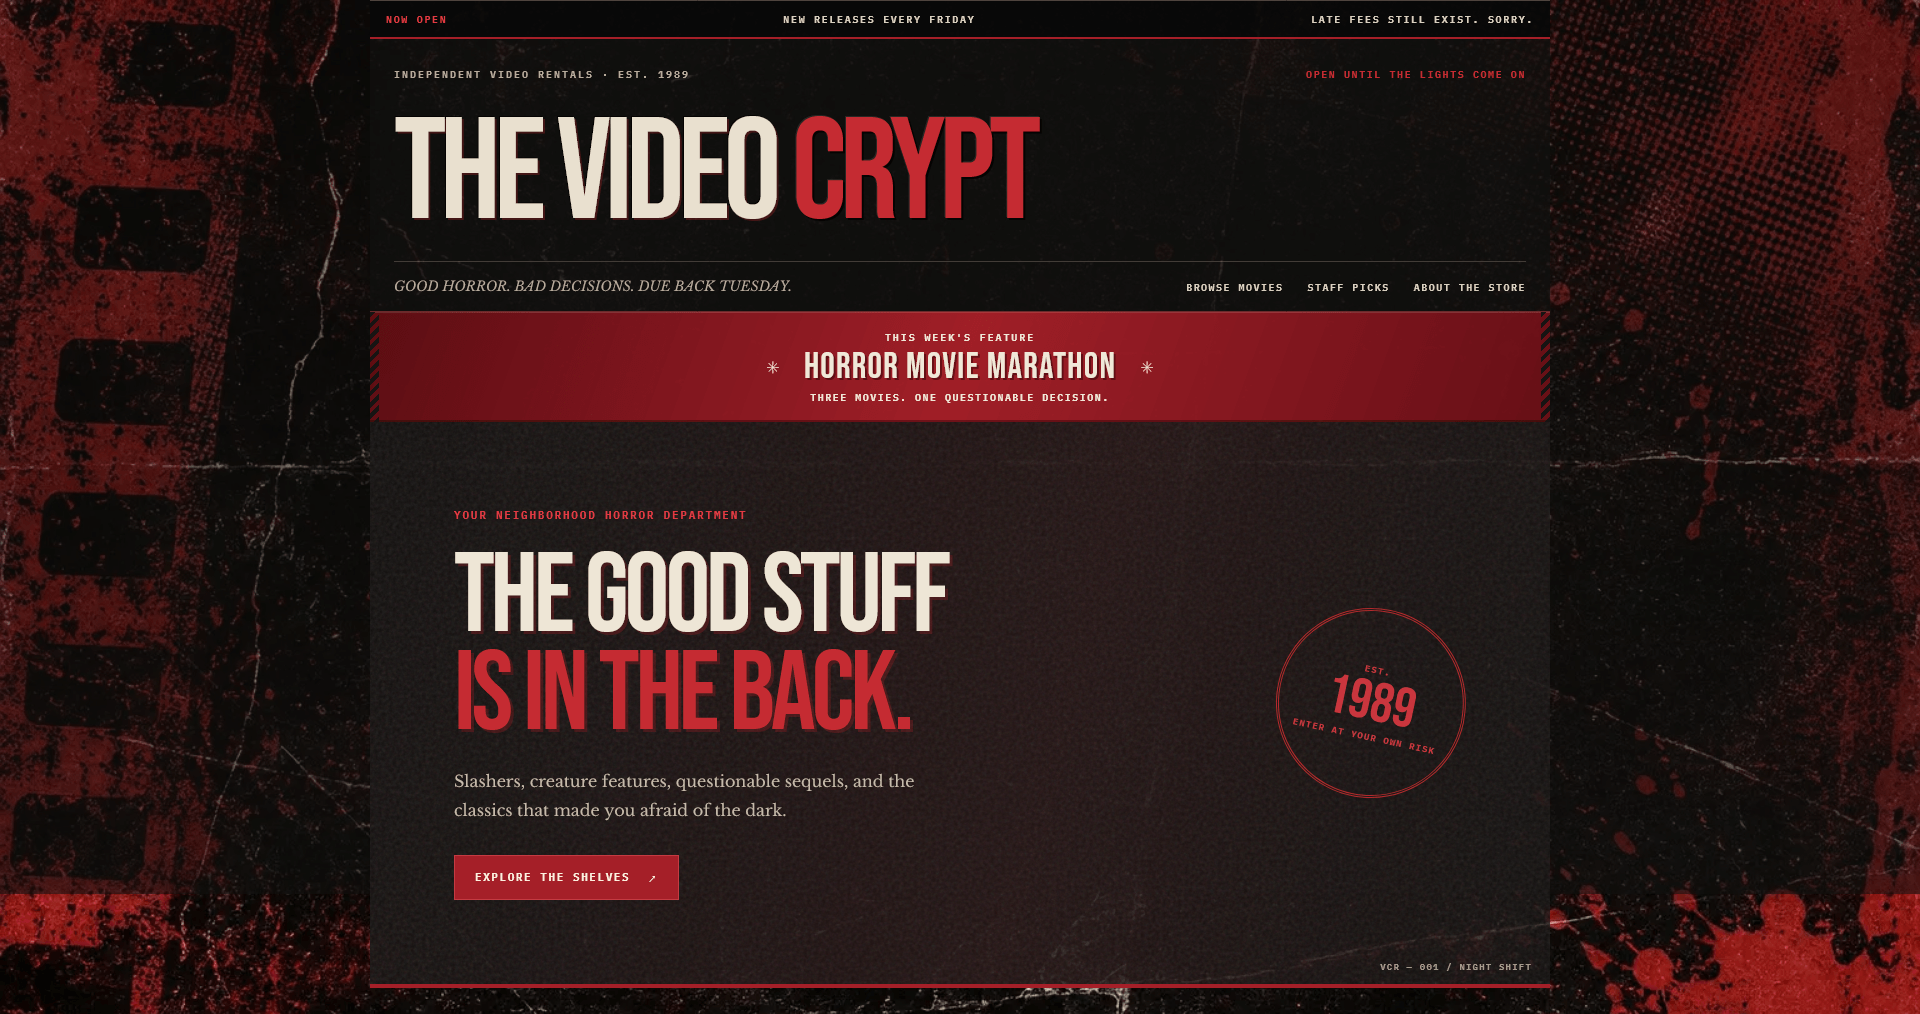
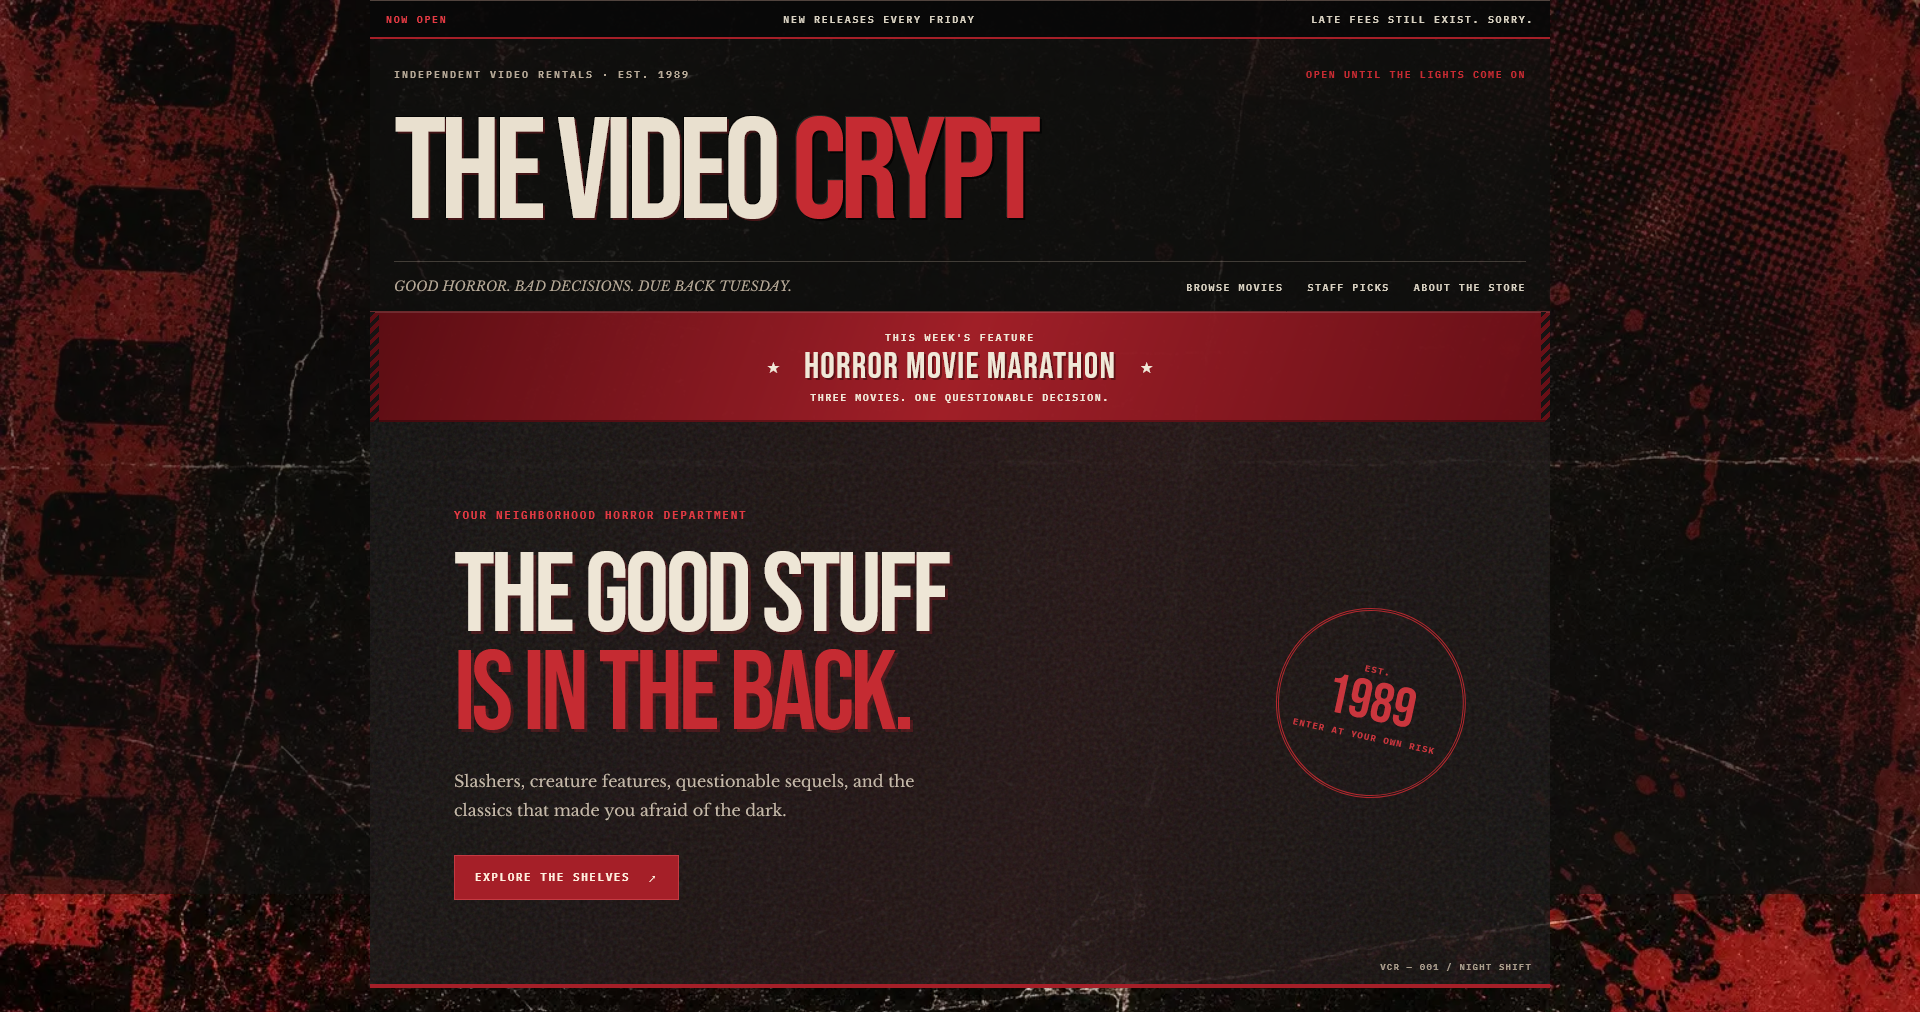
Fix the contact page

diff --git a/src/components/Contact.jsx b/src/components/Contact.jsx
@@ -1,77 +1,56 @@
-function About() {
-  const experienceMetrics = [
-    {
-      value: "8",
-      description: "Years working in web development",
-    },
-    {
-      value: "18",
-      description: "Reusable CMS content rows developed in six months",
-    },
-    {
-      value: "100+",
-      description: "E-commerce websites supported in a previous role",
-    },
-  ];
-
+function Contact() {
   return (
     <section
-      id="about"
-      aria-labelledby="about-heading"
+      id="contact"
+      aria-labelledby="contact-heading"
       className="border-t border-border px-6 py-24"
     >
-      <div className="mx-auto grid max-w-6xl gap-12 md:grid-cols-[1.2fr_0.8fr]">
-        <div>
-          <p className="mb-3 text-sm font-medium uppercase tracking-[0.25em] text-accent">
-            About Me
-          </p>
+      <div className="mx-auto max-w-6xl">
+        <p className="mb-3 text-sm font-medium uppercase tracking-[0.25em] text-accent">
+          Get In Touch
+        </p>
 
-          <h2
-            id="about-heading"
-            className="max-w-xl text-3xl font-bold leading-tight tracking-tight text-text-primary sm:text-4xl"
+        <h2
+          id="contact-heading"
+          className="max-w-2xl text-3xl font-bold leading-tight tracking-tight text-text-primary sm:text-4xl"
+        >
+          Let's build something meaningful.
+        </h2>
+
+        <p className="mt-6 max-w-2xl leading-relaxed text-text-secondary">
+          Have a project or opportunity in mind? I'd love to hear from you.
+          Feel free to reach out.
+        </p>
+
+        <div className="mt-8 flex flex-wrap items-center gap-4">
+          <a
+            href="mailto:anw1667@outlook.com"
+            className="rounded-md bg-accent px-6 py-3 text-center font-medium text-white transition-colors hover:bg-accent/90 focus-visible:outline focus-visible:outline-2 focus-visible:outline-offset-4 focus-visible:outline-focus"
           >
-            A little about me and what I do.
-          </h2>
+            Email Me
+          </a>
 
-          <div className="mt-8 max-w-2xl space-y-5 leading-relaxed text-text-secondary">
-            <p>
-              I'm a web developer with eight years of experience working
-              across higher education and e-commerce. I've built and maintained
-              websites, worked with different content management systems, and
-              developed custom features and applications.
-            </p>
+          <a
+            href="https://www.linkedin.com/in/annawesolowski"
+            target="_blank"
+            rel="noreferrer"
+            className="rounded-md border border-border px-6 py-3 font-medium text-text-primary transition-colors hover:bg-surface hover:text-accent focus-visible:outline focus-visible:outline-2 focus-visible:outline-offset-4 focus-visible:outline-focus"
+          >
+            LinkedIn
+          </a>
 
-            <p>
-              I particularly enjoy front-end work: taking a design and figuring
-              out how to build it with HTML, CSS, and JavaScript. I care about
-              how an interface looks, but also how it works, whether it's
-              accessible, and how it holds up across different devices.
-            </p>
-
-            <p>
-              Outside of my day-to-day work, I've been learning React by
-              building projects of my own. The Video Crypt is one example,
-              where I've had the chance to work with React, APIs, and
-              interactive application features.
-            </p>
-          </div>
+          <a
+            href="https://github.com/constantmotion29"
+            target="_blank"
+            rel="noreferrer"
+            className="rounded-md border border-border px-6 py-3 font-medium text-text-primary transition-colors hover:bg-surface hover:text-accent focus-visible:outline focus-visible:outline-2 focus-visible:outline-offset-4 focus-visible:outline-focus"
+          >
+            GitHub
+          </a>
         </div>
-
-        <dl className="flex flex-col justify-center gap-8">
-          {experienceMetrics.map((metric) => (
-            <div key={metric.value} className="border-l-2 border-accent pl-5">
-              <dt className="text-3xl font-bold text-text-primary">
-                {metric.value}
-              </dt>
-              <dd className="mt-1 text-sm leading-relaxed text-text-secondary">
-                {metric.description}
-              </dd>
-            </div>
-          ))}
-        </dl>
       </div>
     </section>
   );
 }
 
-export default About;
+export default Contact;
